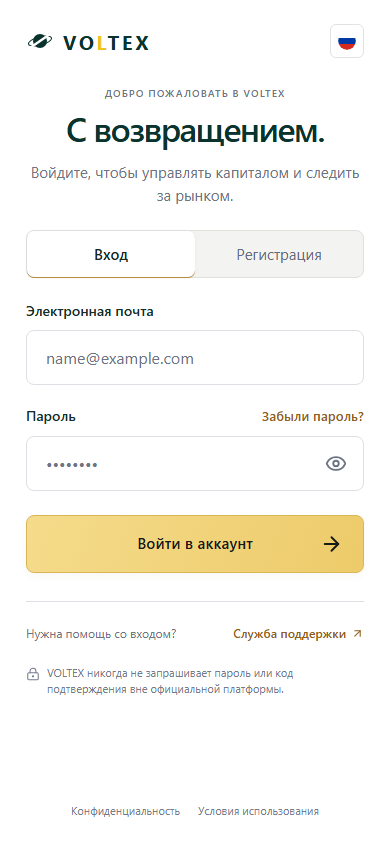
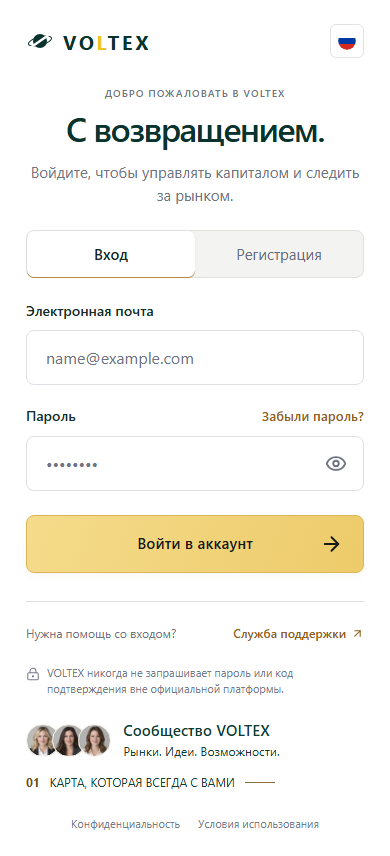
Restore unframed auth community and static card caption

diff --git a/frontend/src/pages/auth-shell/auth-shell.css b/frontend/src/pages/auth-shell/auth-shell.css
@@ -109,7 +109,6 @@
   height: 100svh;
   background: #eee5d8;
 }
-.vx-auth .vx-auth-brand-banner::before,
 .vx-auth .vx-auth-brand-banner::after { content: none; }
 .vx-auth .vx-auth-banner {
   display: block;
@@ -123,6 +122,55 @@
   overflow-y: auto;
 }
 .vx-auth .vx-auth-compact-logo { display: none; }
+
+/* Static, localized photo captions. Only individual portraits have a rim.
+   The local bottom scrim fades into the photo, never into a rectangular card. */
+.vx-auth-brand::before {
+  position: absolute;
+  z-index: 0;
+  inset: auto 0 0;
+  height: 24%;
+  content: '';
+  pointer-events: none;
+  background: radial-gradient(ellipse 78% 100% at 18% 100%, #f8f3e6f5 0%, #f8f3e6cc 42%, #f8f3e600 100%);
+}
+.vx-auth .vx-auth-extras {
+  display: flex;
+  flex-direction: column;
+  gap: clamp(10px, 1.7svh, 18px);
+  color: #123a33;
+}
+.vx-auth-brand > .vx-auth-extras {
+  position: absolute;
+  z-index: 1;
+  left: clamp(24px, 2.5vw, 40px);
+  bottom: clamp(12px, 2svh, 24px);
+  max-width: min(360px, calc(100% - 48px));
+}
+.vx-auth-brand-localized > .vx-auth-extras { bottom: 78px; }
+.vx-auth .vx-auth-community { display: flex; align-items: center; gap: 12px; }
+.vx-auth .vx-auth-avatars { display: inline-flex; flex: none; }
+.vx-auth .vx-auth-avatar {
+  flex: none;
+  width: clamp(28px, 4svh, 40px);
+  height: clamp(28px, 4svh, 40px);
+  border: 1.5px solid #f8f3e6;
+  border-radius: 50%;
+  background-image: url('/auth/community-v4.webp');
+  background-size: 300% 100%;
+  background-position: 0% center;
+}
+.vx-auth .vx-auth-avatar + .vx-auth-avatar { margin-left: -8px; }
+.vx-auth .vx-auth-avatar:nth-child(2) { background-position: 50% center; }
+.vx-auth .vx-auth-avatar:nth-child(3) { background-position: 100% center; }
+.vx-auth .vx-auth-community-copy { display: flex; flex-direction: column; gap: 3px; min-width: 0; }
+.vx-auth .vx-auth-community-copy strong { font-size: clamp(12px, 1.8svh, 16px); font-weight: 600; line-height: 1.25; }
+.vx-auth .vx-auth-community-copy > span { font-size: clamp(11px, 1.45svh, 13px); line-height: 1.4; }
+.vx-auth .vx-auth-card-caption { display: flex; align-items: center; gap: 10px; font-size: clamp(10px, 1.4svh, 12px); line-height: 1.4; }
+.vx-auth .vx-auth-card-number { font-weight: 650; color: #70541f; }
+.vx-auth .vx-auth-card-label { max-width: 250px; }
+.vx-auth .vx-auth-card-line { flex: 0 0 30px; height: 1px; background: #8b703b; }
+.vx-auth-work > .vx-auth-extras { display: none; }
 
 /* Light form theme also scopes the existing language switcher's tokens. */
 .vx-auth-work {
@@ -228,6 +276,8 @@ body:has(.vx-auth) .support-launcher[aria-expanded="false"] { display: none !imp
   .vx-auth-work { padding: 30px 26px; }
 }
 @media (max-width: 760px) {
+  .vx-auth-brand::before, .vx-auth-brand > .vx-auth-extras { display: none; }
+  .vx-auth-work > .vx-auth-extras { display: flex; width: 100%; max-width: 410px; margin: 0 auto 24px; }
   .vx-auth { display: block; }
   .vx-auth-brand { min-height: 0; }
   .vx-auth-brand-inner { min-height: 250px; padding: 22px 24px; }
@@ -249,6 +299,7 @@ body:has(.vx-auth) .support-launcher[aria-expanded="false"] { display: none !imp
 /* This raster cannot fill a narrow/portrait panel while preserving its
    embedded text, face and both hands. Do not crop those or reserve blank space. */
 @media (max-width: 760px), (max-aspect-ratio: 3/2) {
+  .vx-auth.vx-auth--banner .vx-auth-work > .vx-auth-extras { display: flex; width: 100%; max-width: 410px; margin: 0 auto 24px; }
   .vx-auth.vx-auth--banner { display: block; }
   .vx-auth .vx-auth-brand-banner { display: none; }
   .vx-auth.vx-auth--banner .vx-auth-work {

diff --git a/frontend/src/lib/__tests__/authBusinessClassVisual.test.ts b/frontend/src/lib/__tests__/authBusinessClassVisual.test.ts
@@ -51,13 +51,13 @@ describe('business-class visual preserves reviewed authentication', () => {
     expect(shell).not.toMatch(/\bfetch\(|\bapi\.|useEffect/);
   });
 
-  test('Russian marketing banner has no duplicate logo, slogan or extra bottom markup', () => {
+  test('Russian marketing banner has no duplicate logo or slogan; captions are static HTML', () => {
     const html = renderShell('ru');
     expect(html).toContain('src="/auth/selected-cabin-banner.webp"');
     expect(html).toContain('width="919" height="941"');
     expect(html).toContain('alt="VOLTEX. Копируйте сделки лучших трейдеров мира.');
     expect(html.match(/<img /g)).toHaveLength(1);
-    expect(html).not.toMatch(/<picture|<h2|vx-auth-hero|vx-auth-lead|vx-auth-copyright|community|card-caption|cardCaption/);
+    expect(html).not.toMatch(/<picture|<h2|vx-auth-hero|vx-auth-lead|vx-auth-copyright/);
     const banner = html.split('vx-auth-brand-banner')[1].split('</section>')[0];
     expect(banner).not.toMatch(/<a\b|<button\b|<input\b|<p\b|<footer\b|HTML_LOGO/);
     // One existing Logo is available in the form header when the decorative
@@ -65,6 +65,21 @@ describe('business-class visual preserves reviewed authentication', () => {
     expect(html.match(/HTML_LOGO/g)).toHaveLength(1);
     expect(html).toContain('class="vx-auth-compact-logo"');
     expect(html).toContain('EXISTING_ROUTE_FORM');
+  });
+
+  test.each(['ru', 'en', 'zh', 'es', 'hi', 'ja', 'ko'])('%s has localized community and card copy without an unverified count', lang => {
+    const html = renderShell(lang);
+    expect(html.match(/class="vx-auth-extras"/g)).toHaveLength(2);
+    expect(html.match(/class="vx-auth-avatar"/g)).toHaveLength(6);
+    expect(html.match(/class="vx-auth-avatars" aria-hidden="true"/g)).toHaveLength(2);
+    expect(html).toContain(`localized:${lang}:authShell.communityTitle`);
+    expect(html).toContain(`localized:${lang}:authShell.communitySubtitle`);
+    expect(html).toContain(`localized:${lang}:authShell.cardCaption`);
+    expect(html).toContain('class="vx-auth-card-number">01</span>');
+    expect(html).toContain('class="vx-auth-card-line" aria-hidden="true"');
+    expect(html).not.toMatch(/communityCount|communityBadge|1[.,]2\+?\s*(M|млн)/);
+    expect(html.indexOf('EXISTING_ROUTE_FORM')).toBeLessThan(html.lastIndexOf('class="vx-auth-extras"'));
+    expect(html.lastIndexOf('class="vx-auth-extras"')).toBeLessThan(html.indexOf('class="vx-auth-foot"'));
   });
 
   test.each(['en', 'zh', 'es', 'hi', 'ja', 'ko'])('%s retains the localized photo and copy, never translated over Russian artwork', lang => {
@@ -103,7 +118,9 @@ describe('business-class visual preserves reviewed authentication', () => {
     expect(shell).toContain('media="(max-width: 760px)"');
     expect(shell).toContain('width="1440" height="2160"');
     expect(shell).toContain("fetchpriority: 'high'");
-    expect(shell).not.toMatch(/aircraft-v6|communityCount|community-v4|cardCaption|https:\/\//);
+    expect(shell).not.toMatch(/aircraft-v6|communityCount|communityBadge|https:\/\//);
+    expect(css).toContain("url('/auth/community-v4.webp')");
+    expect(css).not.toMatch(/backdrop-filter|backdrop-blur/);
     expect(css).toContain('grid-template-columns: minmax(0, 1fr) minmax(0, 1fr)');
     expect(css).toContain('object-fit: cover');
     expect(css).not.toContain('mask-image');

diff --git a/frontend/src/pages/auth-shell/AuthShell.tsx b/frontend/src/pages/auth-shell/AuthShell.tsx
@@ -8,6 +8,29 @@ import { openSupportWidget } from '../../lib/supportWidget';
 import './auth-shell.css';
 import './auth-form-premium.css';
 
+/** Decorative portraits, not testimonials or an independently verified count. */
+function AuthCommunity() {
+  const { t } = useLanguage();
+  return (
+    <div className="vx-auth-extras">
+      <div className="vx-auth-community">
+        <span className="vx-auth-avatars" aria-hidden="true">
+          <span className="vx-auth-avatar" /><span className="vx-auth-avatar" /><span className="vx-auth-avatar" />
+        </span>
+        <div className="vx-auth-community-copy">
+          <strong>{t('authShell.communityTitle')}</strong>
+          <span>{t('authShell.communitySubtitle')}</span>
+        </div>
+      </div>
+      <div className="vx-auth-card-caption">
+        <span className="vx-auth-card-number">01</span>
+        <span className="vx-auth-card-label">{t('authShell.cardCaption')}</span>
+        <span className="vx-auth-card-line" aria-hidden="true" />
+      </div>
+    </div>
+  );
+}
+
 /** Presentation only: the route forms retain their existing auth handlers. */
 export function AuthShell({ children }: { children: ReactNode }) {
   const { t, lang } = useLanguage();
@@ -21,6 +44,7 @@ export function AuthShell({ children }: { children: ReactNode }) {
           <img className="vx-auth-banner" src="/auth/selected-cabin-banner.webp"
             alt="VOLTEX. Копируйте сделки лучших трейдеров мира. Девушка в кресле самолёта с телефоном и картой."
             width="919" height="941" {...{ fetchpriority: 'high' }} />
+          <AuthCommunity />
         </section>
       ) : (
       <section className="vx-auth-brand vx-auth-brand-localized">
@@ -40,6 +64,7 @@ export function AuthShell({ children }: { children: ReactNode }) {
           </div>
           <footer className="vx-auth-copyright">© {new Date().getFullYear()} VOLTEX</footer>
         </div>
+        <AuthCommunity />
       </section>
       )}
       <section className="vx-auth-work">
@@ -51,6 +76,7 @@ export function AuthShell({ children }: { children: ReactNode }) {
           <LanguageSwitcher variant="pill" />
         </header>
         {children}
+        <AuthCommunity />
         <footer className="vx-auth-foot">
           <Link to="/legal/privacy">{t('footer.privacy')}</Link>
           <Link to="/legal/terms">{t('footer.terms')}</Link>

diff --git a/frontend/src/lib/__tests__/i18nLanguageChunks.test.ts b/frontend/src/lib/__tests__/i18nLanguageChunks.test.ts
@@ -67,10 +67,26 @@ const APPROVED_AUTH_DESIGN_KEYS = [
   'authShell.communityCount', 'authShell.communityText', 'authShell.communityBadge',
   'authShell.cardCaption', 'authShell.supportHint', 'authShell.supportLink',
 ];
+// PR #466: two additive neutral community labels. Only these exact additions
+// are omitted from the historical digest; existing numeric/other copy is not changed.
+const AUTH_COMMUNITY_KEYS = ['authShell.communityTitle', 'authShell.communitySubtitle'];
 
 // ── Integrity ───────────────────────────────────────────────────────
 
 describe('translation integrity', () => {
+  it('adds the two neutral auth community labels once in each locale without an investor claim', () => {
+    for (const code of LOCALES) {
+      const sourceKeys = [...readLocale(code).matchAll(/^\s*'([^']+)':/gm)].map(match => match[1]);
+      for (const key of AUTH_COMMUNITY_KEYS) {
+        expect(sourceKeys.filter(sourceKey => sourceKey === key)).toHaveLength(1);
+        expect(dicts[code][key]?.trim()).toBeTruthy();
+        expect(dicts[code][key]).not.toMatch(/\d|million|миллион|млн|万|백만|लाख/i);
+      }
+    }
+    for (const key of AUTH_COMMUNITY_KEYS) expect(new Set(LOCALES.map(code => dicts[code][key])).size).toBe(LOCALES.length);
+    expect(dicts.ru['authShell.communityTitle']).toBe('Сообщество VOLTEX');
+    expect(dicts.ru['authShell.communitySubtitle']).toBe('Рынки. Идеи. Возможности.');
+  });
   it('provides every shared menu description in all seven languages', () => {
     for (const code of LOCALES) for (const key of menuDescriptionKeys) expect(dicts[code][key]?.trim()).toBeTruthy();
   });
@@ -260,6 +276,7 @@ describe('translation integrity', () => {
       const source = readLocale(code).split('\n').filter(line => {
         const key = line.match(/^\s*'([^']+)':/)?.[1];
         if (key && APPROVED_AUTH_DESIGN_KEYS.includes(key)) return false;
+        if (key && AUTH_COMMUNITY_KEYS.includes(key)) return false;
         // Keys ADDED since the digests were taken are excluded by name
         // rather than by re-taking seven digests — that is what keeps the
         // guard meaningful: every OTHER byte of every dictionary still has

diff --git a/frontend/src/lib/i18n/locales/hi.ts b/frontend/src/lib/i18n/locales/hi.ts
@@ -176,6 +176,8 @@ export const HI: Record<Key, string> = {
   'authShell.communityCount': '12 लाख से अधिक निवेशक',
   'authShell.communityText': 'पहले से ही VOLTEX के साथ बाज़ार पर नज़र रख रहे हैं',
   'authShell.communityBadge': '12 लाख+',
+  'authShell.communityTitle': 'VOLTEX समुदाय',
+  'authShell.communitySubtitle': 'बाज़ार। विचार। संभावनाएँ।',
   'authShell.cardCaption': 'हमेशा आपके साथ रहने वाला कार्ड',
   'authShell.supportHint': 'साइन इन करने में मदद चाहिए?',
   'authShell.supportLink': 'सहायता',

diff --git a/frontend/src/lib/i18n/locales/ru.ts b/frontend/src/lib/i18n/locales/ru.ts
@@ -180,6 +180,8 @@ export const RU = {
   'authShell.communityCount': '1,2+ млн инвесторов',
   'authShell.communityText': 'уже следят за рынком вместе с VOLTEX',
   'authShell.communityBadge': '1,2M+',
+  'authShell.communityTitle': 'Сообщество VOLTEX',
+  'authShell.communitySubtitle': 'Рынки. Идеи. Возможности.',
   'authShell.cardCaption': 'КАРТА, КОТОРАЯ ВСЕГДА С ВАМИ',
   'authShell.supportHint': 'Нужна помощь со входом?',
   'authShell.supportLink': 'Служба поддержки',

diff --git a/frontend/src/lib/i18n/locales/ja.ts b/frontend/src/lib/i18n/locales/ja.ts
@@ -176,6 +176,8 @@ export const JA: Record<Key, string> = {
   'authShell.communityCount': '120万人以上の投資家が',
   'authShell.communityText': 'すでに VOLTEX で市場をチェックしています',
   'authShell.communityBadge': '120万+',
+  'authShell.communityTitle': 'VOLTEX コミュニティ',
+  'authShell.communitySubtitle': '市場。アイデア。可能性。',
   'authShell.cardCaption': 'いつもあなたとともにあるカード',
   'authShell.supportHint': 'ログインでお困りですか？',
   'authShell.supportLink': 'サポート',

diff --git a/frontend/src/lib/i18n/locales/ko.ts b/frontend/src/lib/i18n/locales/ko.ts
@@ -176,6 +176,8 @@ export const KO: Record<Key, string> = {
   'authShell.communityCount': '120만 명 이상의 투자자가',
   'authShell.communityText': '이미 VOLTEX와 함께 시장을 살펴보고 있습니다',
   'authShell.communityBadge': '120만+',
+  'authShell.communityTitle': 'VOLTEX 커뮤니티',
+  'authShell.communitySubtitle': '시장. 아이디어. 가능성.',
   'authShell.cardCaption': '언제나 함께하는 카드',
   'authShell.supportHint': '로그인에 도움이 필요하신가요?',
   'authShell.supportLink': '고객 지원',

diff --git a/frontend/src/lib/i18n/locales/es.ts b/frontend/src/lib/i18n/locales/es.ts
@@ -176,6 +176,8 @@ export const ES: Record<Key, string> = {
   'authShell.communityCount': 'Más de 1,2 millones de inversores',
   'authShell.communityText': 'ya siguen el mercado con VOLTEX',
   'authShell.communityBadge': '1,2M+',
+  'authShell.communityTitle': 'Comunidad VOLTEX',
+  'authShell.communitySubtitle': 'Mercados. Ideas. Posibilidades.',
   'authShell.cardCaption': 'LA TARJETA QUE SIEMPRE VA CONTIGO',
   'authShell.supportHint': '¿Necesitas ayuda para iniciar sesión?',
   'authShell.supportLink': 'Soporte',

diff --git a/frontend/src/lib/i18n/locales/zh.ts b/frontend/src/lib/i18n/locales/zh.ts
@@ -177,6 +177,8 @@ export const ZH: Record<Key, string> = {
   'authShell.communityCount': '超过120万名投资者',
   'authShell.communityText': '已在与 VOLTEX 一起关注市场',
   'authShell.communityBadge': '120万+',
+  'authShell.communityTitle': 'VOLTEX 社区',
+  'authShell.communitySubtitle': '市场。创意。机遇。',
   'authShell.cardCaption': '始终伴您左右的卡',
   'authShell.supportHint': '登录需要帮助？',
   'authShell.supportLink': '客户支持',

diff --git a/frontend/src/lib/i18n/locales/en.ts b/frontend/src/lib/i18n/locales/en.ts
@@ -177,6 +177,8 @@ export const EN: Record<Key, string> = {
   'authShell.communityCount': '1.2M+ investors',
   'authShell.communityText': 'already follow the market with VOLTEX',
   'authShell.communityBadge': '1.2M+',
+  'authShell.communityTitle': 'VOLTEX community',
+  'authShell.communitySubtitle': 'Markets. Ideas. Possibilities.',
   'authShell.cardCaption': 'THE CARD THAT GOES WITH YOU',
   'authShell.supportHint': 'Need help signing in?',
   'authShell.supportLink': 'Support',

diff --git a/docs/qa/auth-business-class/README.md b/docs/qa/auth-business-class/README.md
@@ -7,8 +7,13 @@ and #467. No merge into main or production deployment is authorized.
 Russian Login and Register now use only the left 919 x 941 crop of the approved
 `voltex-premium-gold-button-v6.png`. This supersedes the earlier real-photo/RU
 text composition. The lossless crop preserves every decoded pixel. Its embedded
-logo and slogan appear once: no HTML headline/white card, community, avatars,
-caption or numbered controls. See `frontend/public/auth/README.md` for hashes.
+logo and slogan appear once: no HTML headline or white card.
+The owner-requested community and static card caption are ordinary localized
+HTML: three existing decorative avatars, neutral community title/subtitle,
+then `01`, the existing card label and a thin line. No shared panel, border,
+blur, raised shadow, numeric badge, carousel or testimonial claim is added.
+No verified evidence for the previous 1.2 million figure was found; old copy
+and comments are not evidence. See `frontend/public/auth/README.md` for hashes.
 
 The geometry follow-up removes the former contain/55:45 letterboxing. Desktop
 column width follows `viewport height * 919 / 941`, capped at 60% to keep the
@@ -23,6 +28,11 @@ At <=760px or aspect ratio <=3/2 the Russian banner is omitted without reserved
 space, and the existing Logo is shown in the form header. This also handles
 narrow/portrait windows and zoom reflow without a tiny unreadable poster.
 Other languages retain their existing localized photo/copy and mobile layout.
+On desktop both restored blocks occupy the lower-left photo background, clear
+of protected subject/card/phone regions. A local bottom radial light gradient
+fades to transparent at its top edge; no rectangular fill or full-photo filter.
+On compact/mobile screens both blocks follow the existing form/support/security
+and precede legal links, without inserting anything above the inputs.
 
 The white form, centered logo/heading, segmented tabs and gold button are CSS
 on existing controls, NOT a screenshot. `AuthPage`, `RegisterPage`,
@@ -44,6 +54,10 @@ The same-page resize cases additionally check window-height changes and
 of a browser-toolbar zoom interaction). Geometry uses intrinsic raster size,
 computed object-fit/object-position, painted bounds, panel coverage and protected
 source regions. Checks also cover scroll access and validation errors.
+Community checks require exactly one visible pair, three distinct loaded local
+avatar tiles, decorative accessibility semantics, localized copy without the
+unsupported counter, transparent unframed wrappers, and no protected-region or
+form/support/legal overlap. The prior behavior and geometry checks remain.
 Local result: 38 main cases + 12 resize/zoom-reflow cases PASS, CLS 0 on initial
 loads; no horizontal overflow, clipped content, failed images, unexpected
 console/runtime errors, external traffic or forwarded writes. Password reveal,
@@ -59,7 +73,7 @@ uploads a SHA-named report/screenshots artifact. The independent full frontend
 regression workflow remains enabled and unmodified. Existing callback tests
 still cover login, 2FA, session, safe redirect, registration, referral and error
 handling; source fingerprints prove the functional form files are unchanged.
-Local TypeScript/build and 167 targeted tests passed. Fresh remote exact-head
+Local TypeScript/build and 175 targeted tests passed. Fresh remote exact-head
 results are recorded on PR #466; older CI is not evidence for this revision.
 No checks are waived or disabled.
 
